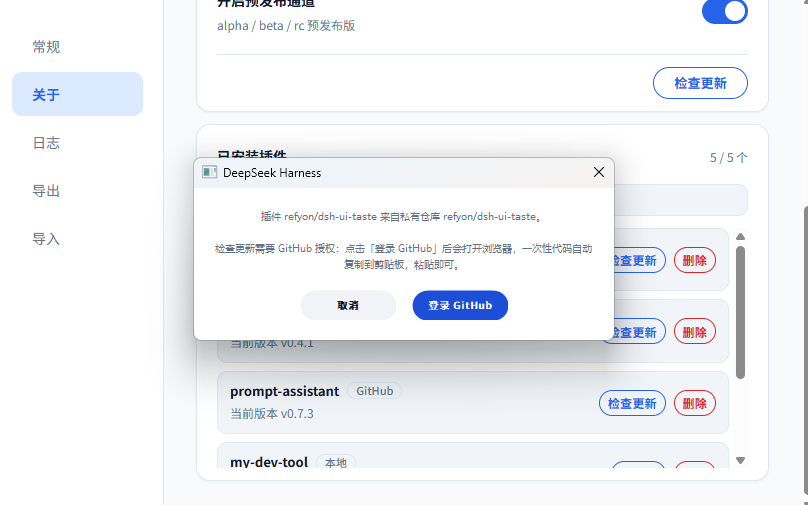
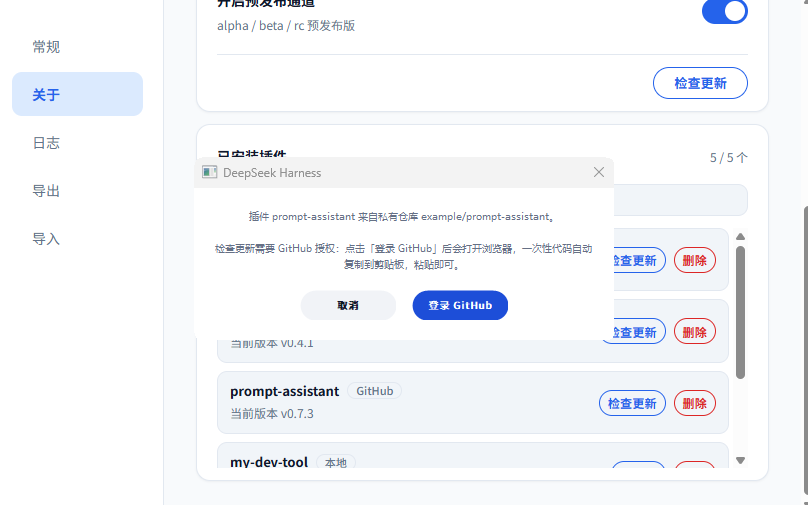
fix(docs): 轮播图授权弹窗脱敏 + 截图脚本支持锁屏合成
弹窗截图改用虚构示例（prompt-assistant / example/prompt-assistant，与 shotPlugins 脱敏示例集一致），不再暴露真实私有仓库标识；capture_github_dialog.ps1 桌面不可用时退回 PrintWindow 双窗合成（黑边内缩 + 圆角裁剪），并每次重编 dialogshot.exe 防止旧文案残留。

Changed region(s): [[0.2166, 0.3267, 0.7735, 0.7723], [0.2785, 0.297, 0.6498, 0.3564], [0.3094, 0.4158, 0.6807, 0.4455]]

diff --git a/tmp_shot_dialog_test.go b/tmp_shot_dialog_test.go
@@ -22,7 +22,9 @@ func TestShotGitHubAuthDialog(t *testing.T) {
 		langPref = normalizeLang(v)
 	}
 	curLang = resolveLang(langPref)
-	msg := ghAuthPromptMsg("refyon/dsh-ui-taste", "refyon/dsh-ui-taste")
+	// 脱敏：插件名与来源仓库一律用虚构示例（与 plugin_update.go shotPlugins 的示例集一致），
+	// 截图会进公开站点/README，不能暴露开发者真实的私有仓库标识。
+	msg := ghAuthPromptMsg("prompt-assistant", "example/prompt-assistant")
 	runModernDialog(appName, msg, []string{T("取消"), T(ghLoginLabel)}, 1)
 	time.Sleep(500 * time.Millisecond)
 }
